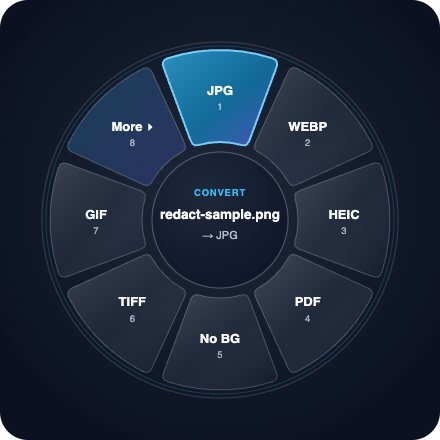
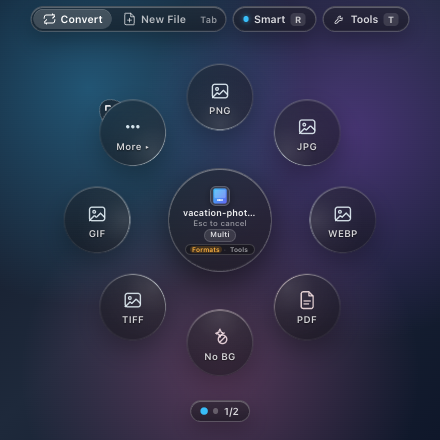
fix: correct wheel shadows and README captures

diff --git a/src/styles/wheel.css b/src/styles/wheel.css
@@ -43,12 +43,14 @@ html[data-route="wheel"] body.wheel-browser-preview {
   align-items: center;
   justify-content: center;
   background: transparent;
+  overflow: visible;
 }
 
 .wheel-shell {
   position: relative;
   width: 440px;
   height: 440px;
+  overflow: visible;
   transform-origin: 220px 220px;
   animation: flip-wheel-enter 220ms cubic-bezier(0.2, 1.12, 0.32, 1) both;
 }
@@ -428,7 +430,6 @@ html[data-route="wheel"] body.wheel-browser-preview {
   display: block;
   z-index: 4;
   overflow: visible;
-  filter: drop-shadow(0 6px 14px rgba(0, 0, 0, 0.22));
 }
 
 .wheel-sector-group {
@@ -1153,7 +1154,7 @@ html[data-route="wheel"] body.wheel-browser-preview {
 /* Page Indicator Dots at Bottom of Wheel */
 .wheel-page-dots {
   position: absolute;
-  bottom: 12px;
+  bottom: 18px;
   left: 50%;
   transform: translateX(-50%);
   display: inline-flex;
